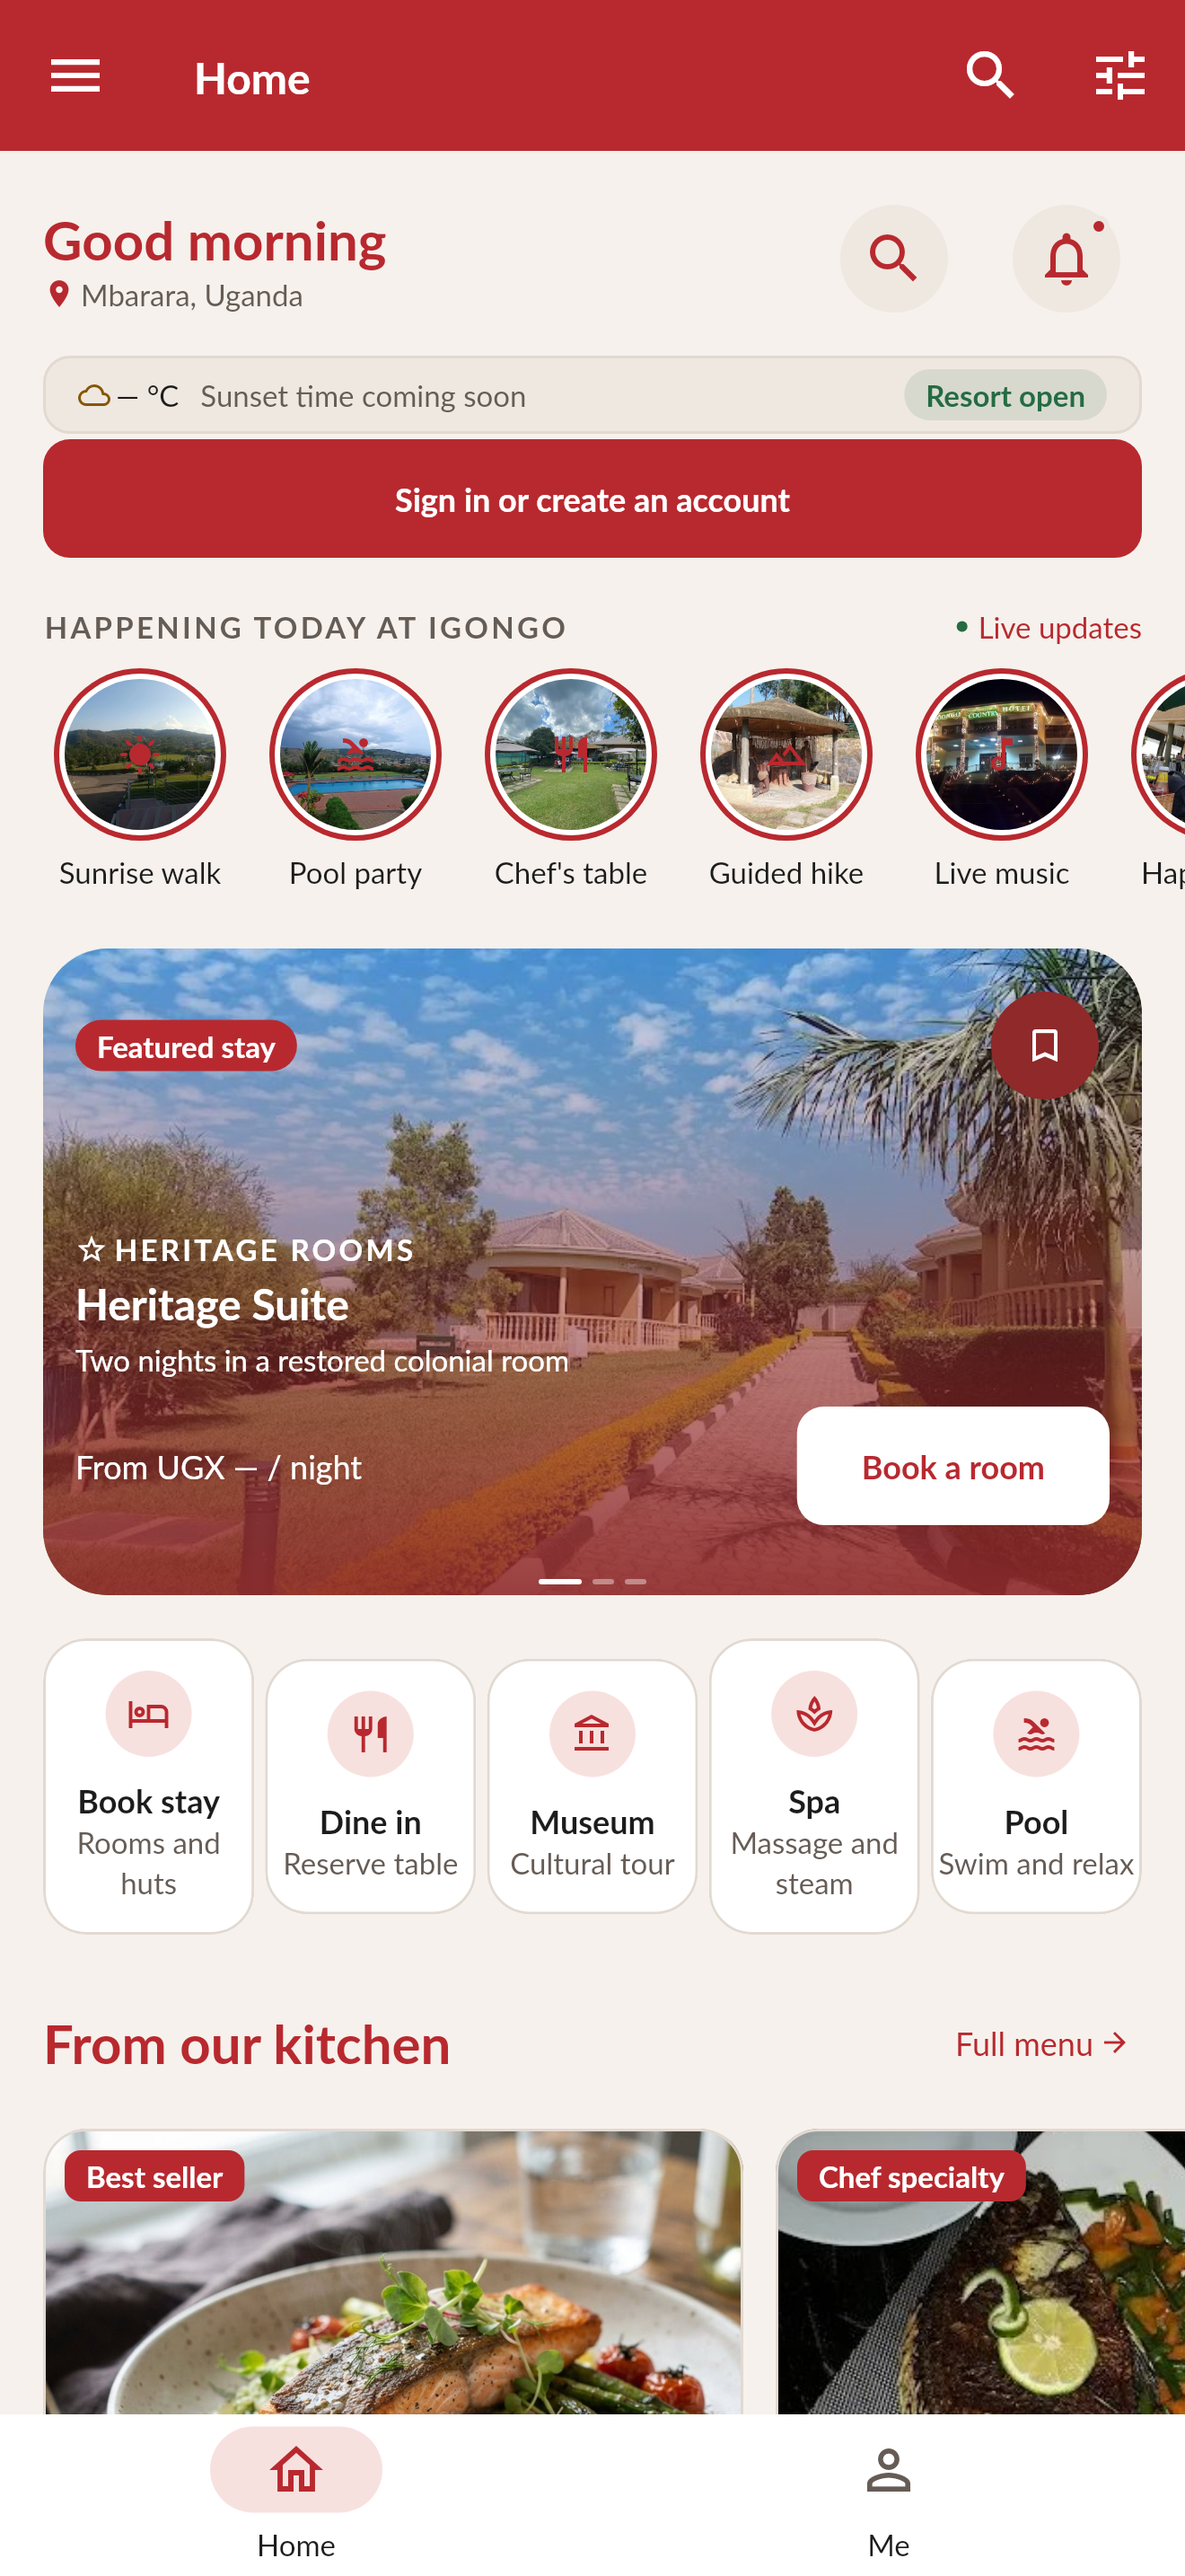
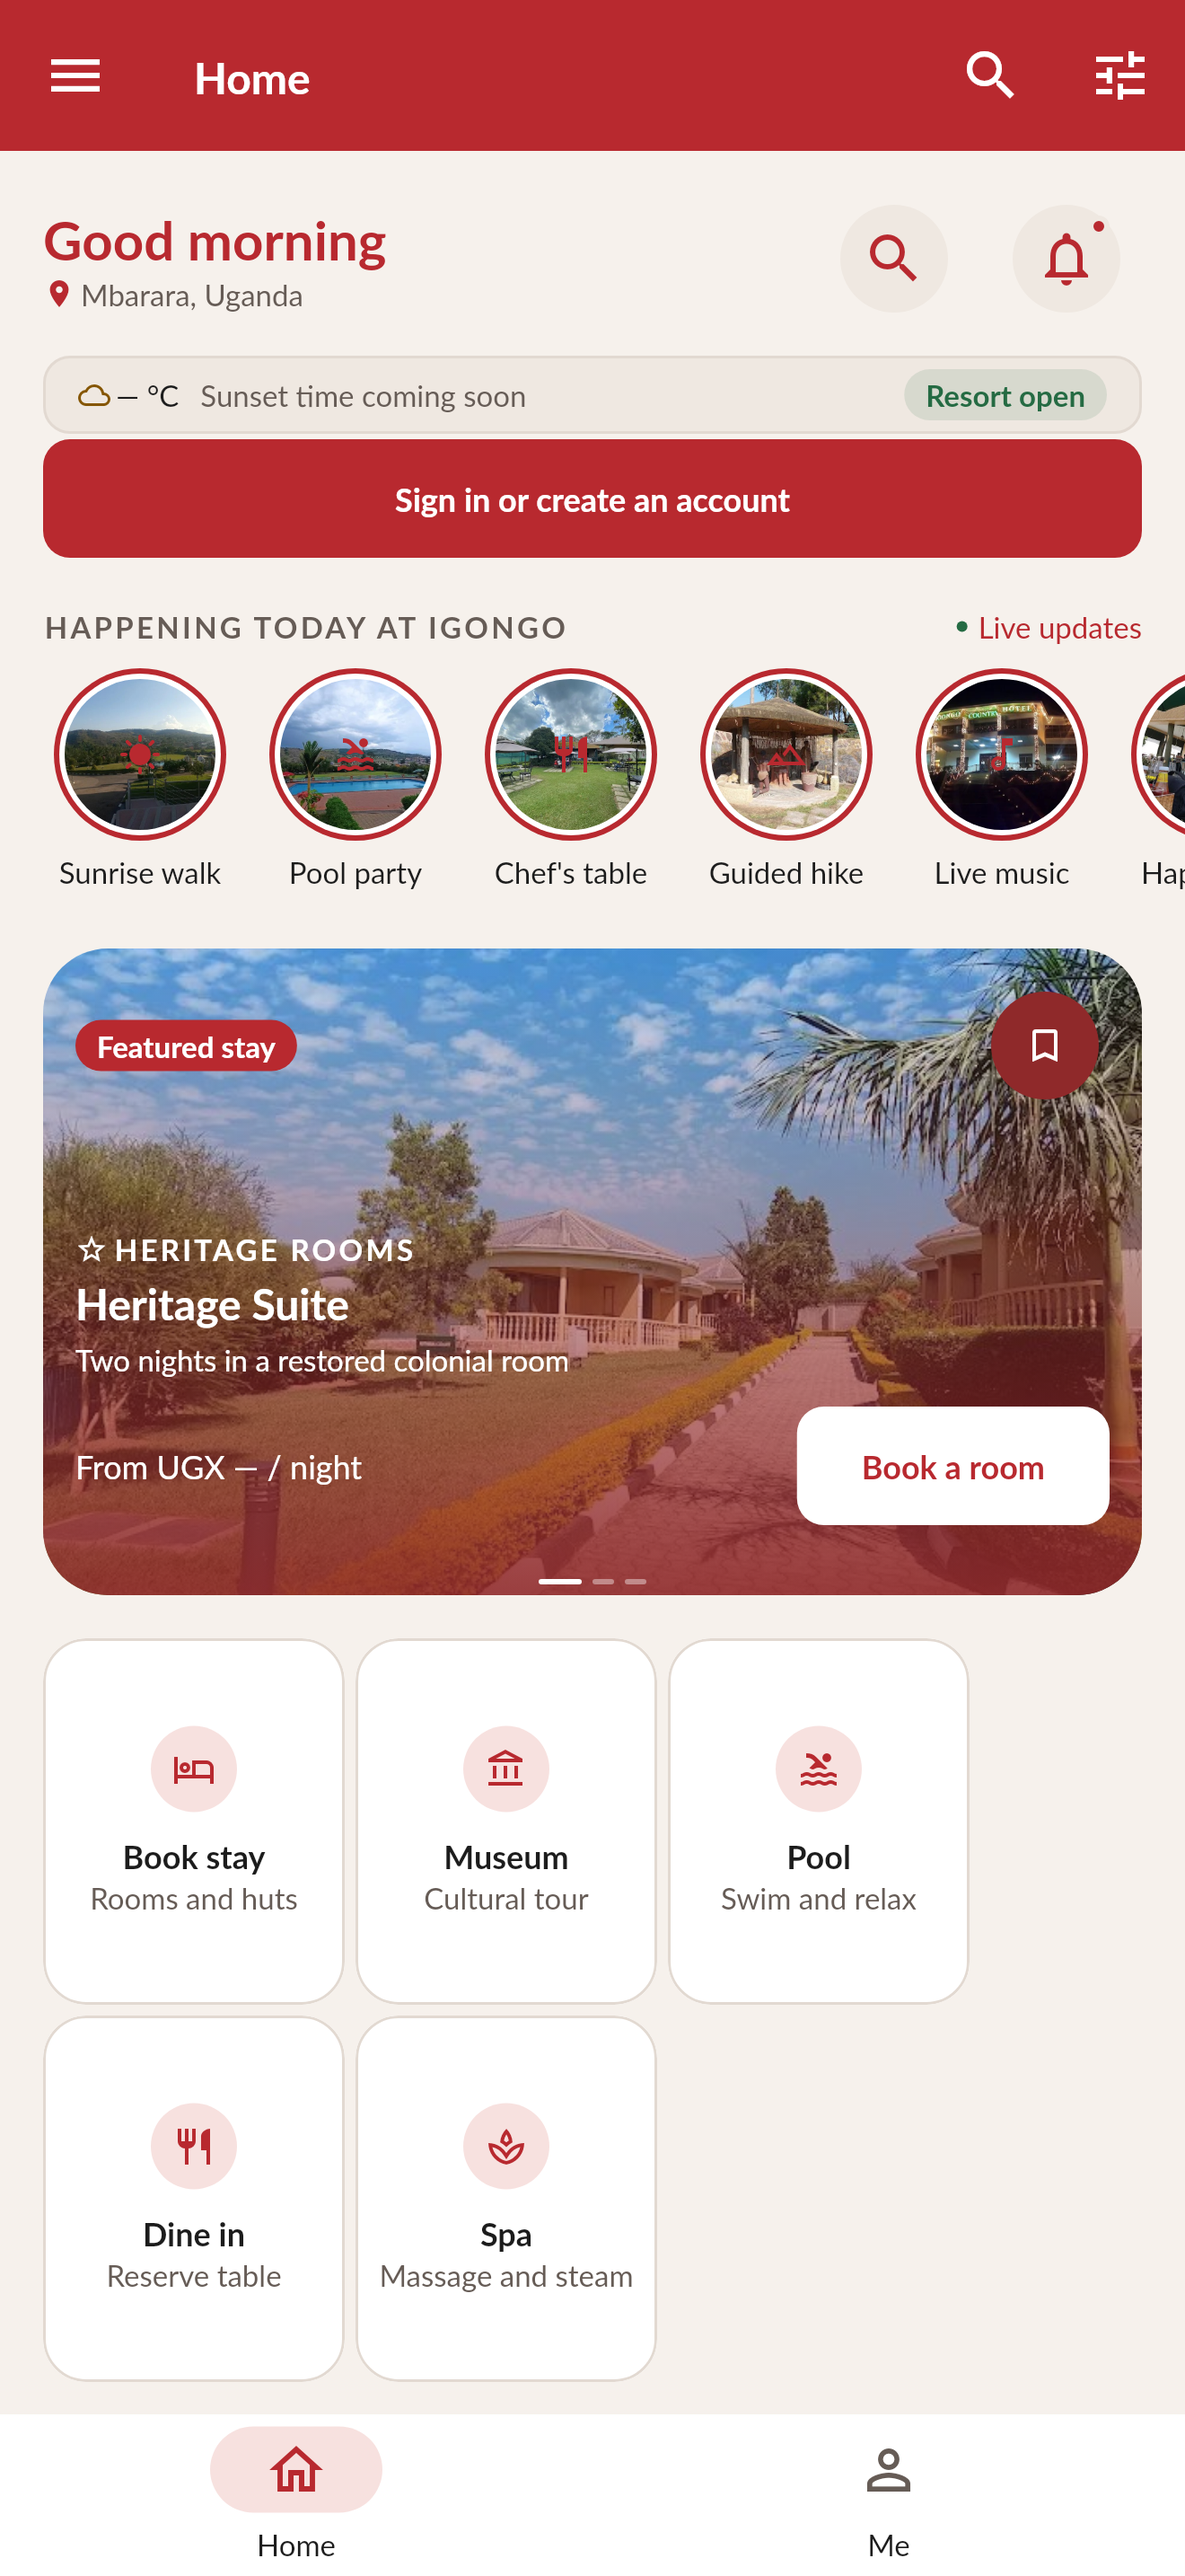
Lay out Home quick actions in two rows (#88)
* Lay out Home quick actions in two swipeable rows

The five quick-action cards on the guest Home now sit in two rows, in
columns of two, that scroll sideways by swiping. No auto-scroll.
All cards share one size, now a named token (quickAction) in
packages/design-tokens, so the size changes in one place.
Colours, fonts and card styling are unchanged; Spa and Pool still open
the placeholder page.

Claude-Session: https://claude.ai/code/session_016ozUvf6CeuTSfWZv3aTCuc

* Scroll to the dish row in the guest landing test

The two-row quick actions are taller, so the Meals to order row sits
below the fold. The test now scrolls down to it before checking it.

Claude-Session: https://claude.ai/code/session_016ozUvf6CeuTSfWZv3aTCuc

* Regenerate app screenshots on Linux (Flutter 3.50.1)

* Give every quick-action card the same width

Each card was only as wide as its own text, so cards in one grid differed
in width. Each card now sits in a box of the token width and height.

Claude-Session: https://claude.ai/code/session_016ozUvf6CeuTSfWZv3aTCuc

* Regenerate app screenshots on Linux (Flutter 3.50.1)

---------

Changed region(s): [[0.0311, 0.6517, 1.0, 0.962], [0.3417, 0.6517, 0.8386, 0.7448], [0.8386, 0.6517, 0.9629, 0.7448]]

diff --git a/apps/igongo/lib/modules/m00_app_shell/presentation/role_home/guest/guest_quick_actions.dart b/apps/igongo/lib/modules/m00_app_shell/presentation/role_home/guest/guest_quick_actions.dart
@@ -1,15 +1,17 @@
-// The five quick actions under the hero card: Book stay, Dine in, Museum, Spa and Pool,
-// all in one row of equal columns. [onOpen] opens the screen for the chosen area.
+// The five quick actions under the hero card: Book stay, Dine in, Museum, Spa and Pool.
+// They sit in two rows that scroll sideways by swiping. Every card is the same size, taken
+// from the design tokens. There is no automatic scrolling. [onOpen] opens the screen for an area.
 
 import 'package:igongo_tokens/igongo_tokens.dart';
 import 'package:material_ui/material_ui.dart';
 
 import 'guest_quick_action.dart';
+import 'guest_quick_action_column.dart';
 import 'guest_service_placeholder_page.dart';
 
-/// The row of five quick-action cards.
+/// The grid of five quick-action cards, two rows high, swiped sideways.
 class GuestQuickActions extends StatelessWidget {
-  /// Creates the row; [onOpen] receives the screen ID to open.
+  /// Creates the grid; [onOpen] receives the screen ID to open.
   const GuestQuickActions({super.key, required this.onOpen});
 
   /// Called with the screen ID of the tapped action.
@@ -30,55 +32,58 @@ class GuestQuickActions extends StatelessWidget {
   }
 
   @override
-  Widget build(BuildContext context) => Padding(
-    padding: const EdgeInsets.symmetric(horizontal: IgongoSpace.lg),
-    // Step 1: five equal columns with a small gap between them.
-    child: IntrinsicHeight(
-      child: Row(
-        spacing: IgongoSpace.xs,
-        children: [
-          Expanded(
-            child: GuestQuickAction(
-              icon: Icons.hotel_outlined,
-              title: 'Book stay',
-              subtitle: 'Rooms and huts',
-              onTap: () => onOpen(_stay),
-            ),
-          ),
-          Expanded(
-            child: GuestQuickAction(
-              icon: Icons.restaurant_outlined,
-              title: 'Dine in',
-              subtitle: 'Reserve table',
-              onTap: () => onOpen(_dine),
-            ),
-          ),
-          Expanded(
-            child: GuestQuickAction(
-              icon: Icons.account_balance_outlined,
-              title: 'Museum',
-              subtitle: 'Cultural tour',
-              onTap: () => onOpen(_museum),
-            ),
-          ),
-          Expanded(
-            child: GuestQuickAction(
-              icon: Icons.spa_outlined,
-              title: 'Spa',
-              subtitle: 'Massage and steam',
-              onTap: () => _openPlaceholder(context, 'Spa'),
-            ),
-          ),
-          Expanded(
-            child: GuestQuickAction(
-              icon: Icons.pool_outlined,
-              title: 'Pool',
-              subtitle: 'Swim and relax',
-              onTap: () => _openPlaceholder(context, 'Pool'),
-            ),
-          ),
-        ],
+  Widget build(BuildContext context) {
+    // Step 1: the five actions in reading order. They are filled down each column first,
+    // so the first column holds Book stay over Dine in, the second Museum over Spa, and so on.
+    final actions = <Widget>[
+      GuestQuickAction(
+        icon: Icons.hotel_outlined,
+        title: 'Book stay',
+        subtitle: 'Rooms and huts',
+        onTap: () => onOpen(_stay),
       ),
-    ),
-  );
+      GuestQuickAction(
+        icon: Icons.restaurant_outlined,
+        title: 'Dine in',
+        subtitle: 'Reserve table',
+        onTap: () => onOpen(_dine),
+      ),
+      GuestQuickAction(
+        icon: Icons.account_balance_outlined,
+        title: 'Museum',
+        subtitle: 'Cultural tour',
+        onTap: () => onOpen(_museum),
+      ),
+      GuestQuickAction(
+        icon: Icons.spa_outlined,
+        title: 'Spa',
+        subtitle: 'Massage and steam',
+        onTap: () => _openPlaceholder(context, 'Spa'),
+      ),
+      GuestQuickAction(
+        icon: Icons.pool_outlined,
+        title: 'Pool',
+        subtitle: 'Swim and relax',
+        onTap: () => _openPlaceholder(context, 'Pool'),
+      ),
+    ];
+
+    // Step 2: pair the actions into columns of two, each card the same fixed size.
+    final columns = <Widget>[];
+    for (var i = 0; i < actions.length; i += 2) {
+      columns.add(GuestQuickActionColumn(children: actions.skip(i).take(2).toList()));
+    }
+
+    // Step 3: lay the columns out in one horizontal, swipeable strip. No auto-scroll is used.
+    return SizedBox(
+      height: IgongoQuickAction.height * 2 + IgongoSpace.xs,
+      child: ListView.separated(
+        scrollDirection: Axis.horizontal,
+        padding: const EdgeInsets.symmetric(horizontal: IgongoSpace.lg),
+        itemCount: columns.length,
+        separatorBuilder: (_, _) => const SizedBox(width: IgongoSpace.xs),
+        itemBuilder: (_, i) => columns[i],
+      ),
+    );
+  }
 }

diff --git a/apps/igongo/lib/modules/m00_app_shell/presentation/role_home/guest/guest_quick_action_column.dart b/apps/igongo/lib/modules/m00_app_shell/presentation/role_home/guest/guest_quick_action_column.dart
@@ -1,0 +1,27 @@
+// One column of the quick-action grid: up to two cards stacked top to bottom.
+// Each card sits in a box of the same token size, so every card in the grid matches.
+
+import 'package:igongo_tokens/igongo_tokens.dart';
+import 'package:material_ui/material_ui.dart';
+
+/// A column of up to two quick-action cards, each in a fixed-size box.
+class GuestQuickActionColumn extends StatelessWidget {
+  /// Creates the column from its [children] (one or two cards).
+  const GuestQuickActionColumn({super.key, required this.children});
+
+  /// The cards in this column, top to bottom.
+  final List<Widget> children;
+
+  @override
+  Widget build(BuildContext context) => SizedBox(
+    width: IgongoQuickAction.width,
+    child: Column(
+      spacing: IgongoSpace.xs,
+      children: [
+        // Step 1: wrap each card in a box of the token width and height, so no card grows to fit its text.
+        for (final child in children)
+          SizedBox(width: IgongoQuickAction.width, height: IgongoQuickAction.height, child: child),
+      ],
+    ),
+  );
+}

diff --git a/apps/igongo/lib/modules/m00_app_shell/presentation/role_home/guest/guest_quick_action.dart b/apps/igongo/lib/modules/m00_app_shell/presentation/role_home/guest/guest_quick_action.dart
@@ -44,8 +44,10 @@ class GuestQuickAction extends StatelessWidget {
         child: Padding(
           padding: const EdgeInsets.symmetric(horizontal: IgongoSpace.xxs, vertical: IgongoSpace.md),
           // Step 1: the disc, then the title and subtitle, all centred in the card.
+          // The content is centred vertically so every card in the grid looks the same.
           child: Column(
             mainAxisSize: MainAxisSize.min,
+            mainAxisAlignment: MainAxisAlignment.center,
             children: [
               DecoratedBox(
                 decoration: BoxDecoration(color: p.primaryContainer, shape: BoxShape.circle),

diff --git a/apps/igongo/test/app/guest_landing_test.dart b/apps/igongo/test/app/guest_landing_test.dart
@@ -27,6 +27,12 @@ void main() {
     expect(find.byType(RoleDrawer), findsNothing);
     // Step 2b: the meals slideshow replaces the old "Today's menu" words.
     expect(find.text("Today's menu"), findsNothing);
+    // The two-row quick actions push the dish row below the fold, so scroll down to it first.
+    await tester.scrollUntilVisible(
+      find.bySemanticsLabel('Meals to order'),
+      200,
+      scrollable: find.byType(Scrollable).first,
+    );
     expect(find.bySemanticsLabel('Meals to order'), findsOneWidget);
     // Step 3: no super admin Preview button for a guest.
     expect(find.byTooltip('Preview'), findsNothing);

diff --git a/packages/design-tokens/lib/igongo_tokens.dart b/packages/design-tokens/lib/igongo_tokens.dart
@@ -123,6 +123,12 @@ abstract final class IgongoMotion {
   static const slow = 320.0;
 }
 
+/// quickAction values from the tokens.
+abstract final class IgongoQuickAction {
+  static const width = 112.0;
+  static const height = 136.0;
+}
+
 /// Font families from the brand package.
 abstract final class IgongoFonts {
   static const brand = 'Cinzel';

diff --git a/tools/ui-gen/gen_ui.py b/tools/ui-gen/gen_ui.py
@@ -316,7 +316,7 @@ def dart_tokens(tokens: dict) -> str:
         if isinstance(v, (int, float)):
             out.append(f"  static const {key} = {float(v)};")
     out += ["}", ""]
-    for group, cls in (("space", "IgongoSpace"), ("radius", "IgongoRadius"), ("touchTarget", "IgongoTouch"), ("elevation", "IgongoElevation"), ("motion", "IgongoMotion")):
+    for group, cls in (("space", "IgongoSpace"), ("radius", "IgongoRadius"), ("touchTarget", "IgongoTouch"), ("elevation", "IgongoElevation"), ("motion", "IgongoMotion"), ("quickAction", "IgongoQuickAction")):
         out.append(f"/// {group} values from the tokens.")
         out.append(f"abstract final class {cls} {{")
         for key, v in tokens[group].items():
